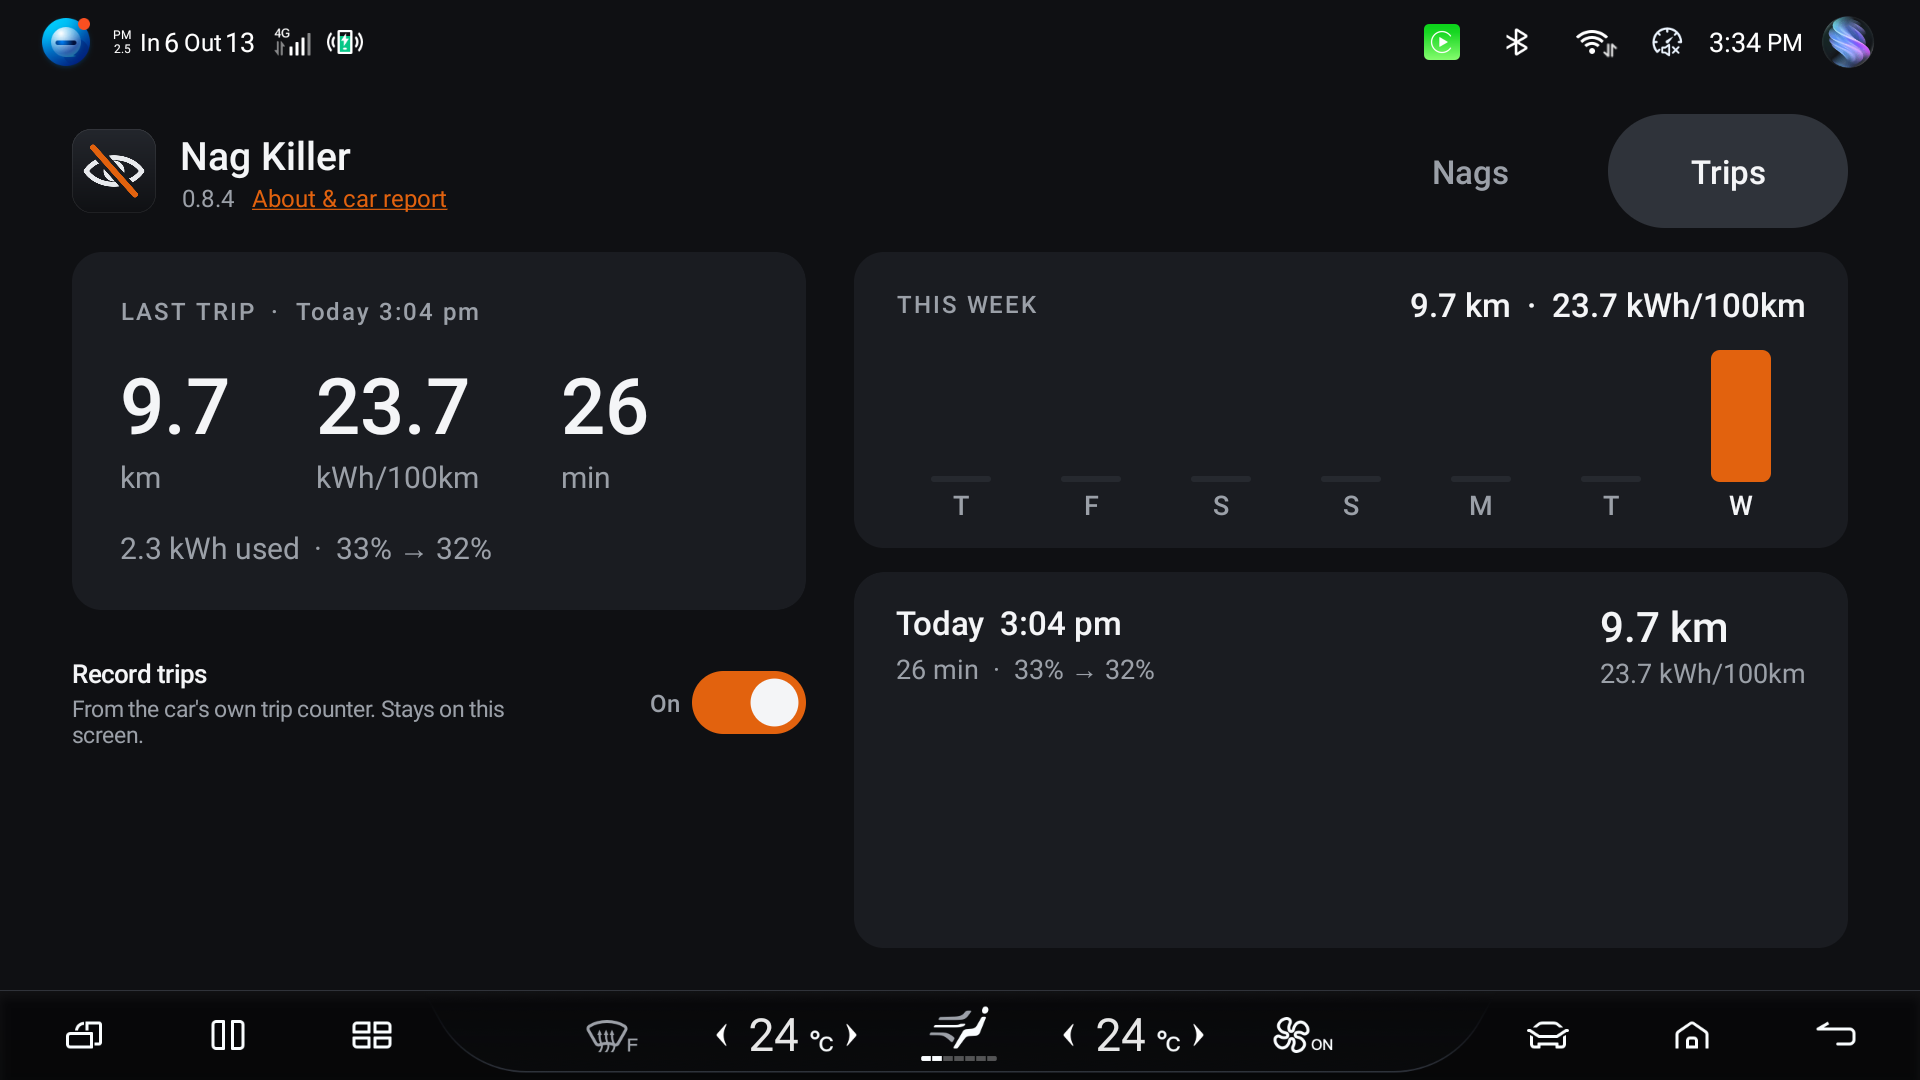
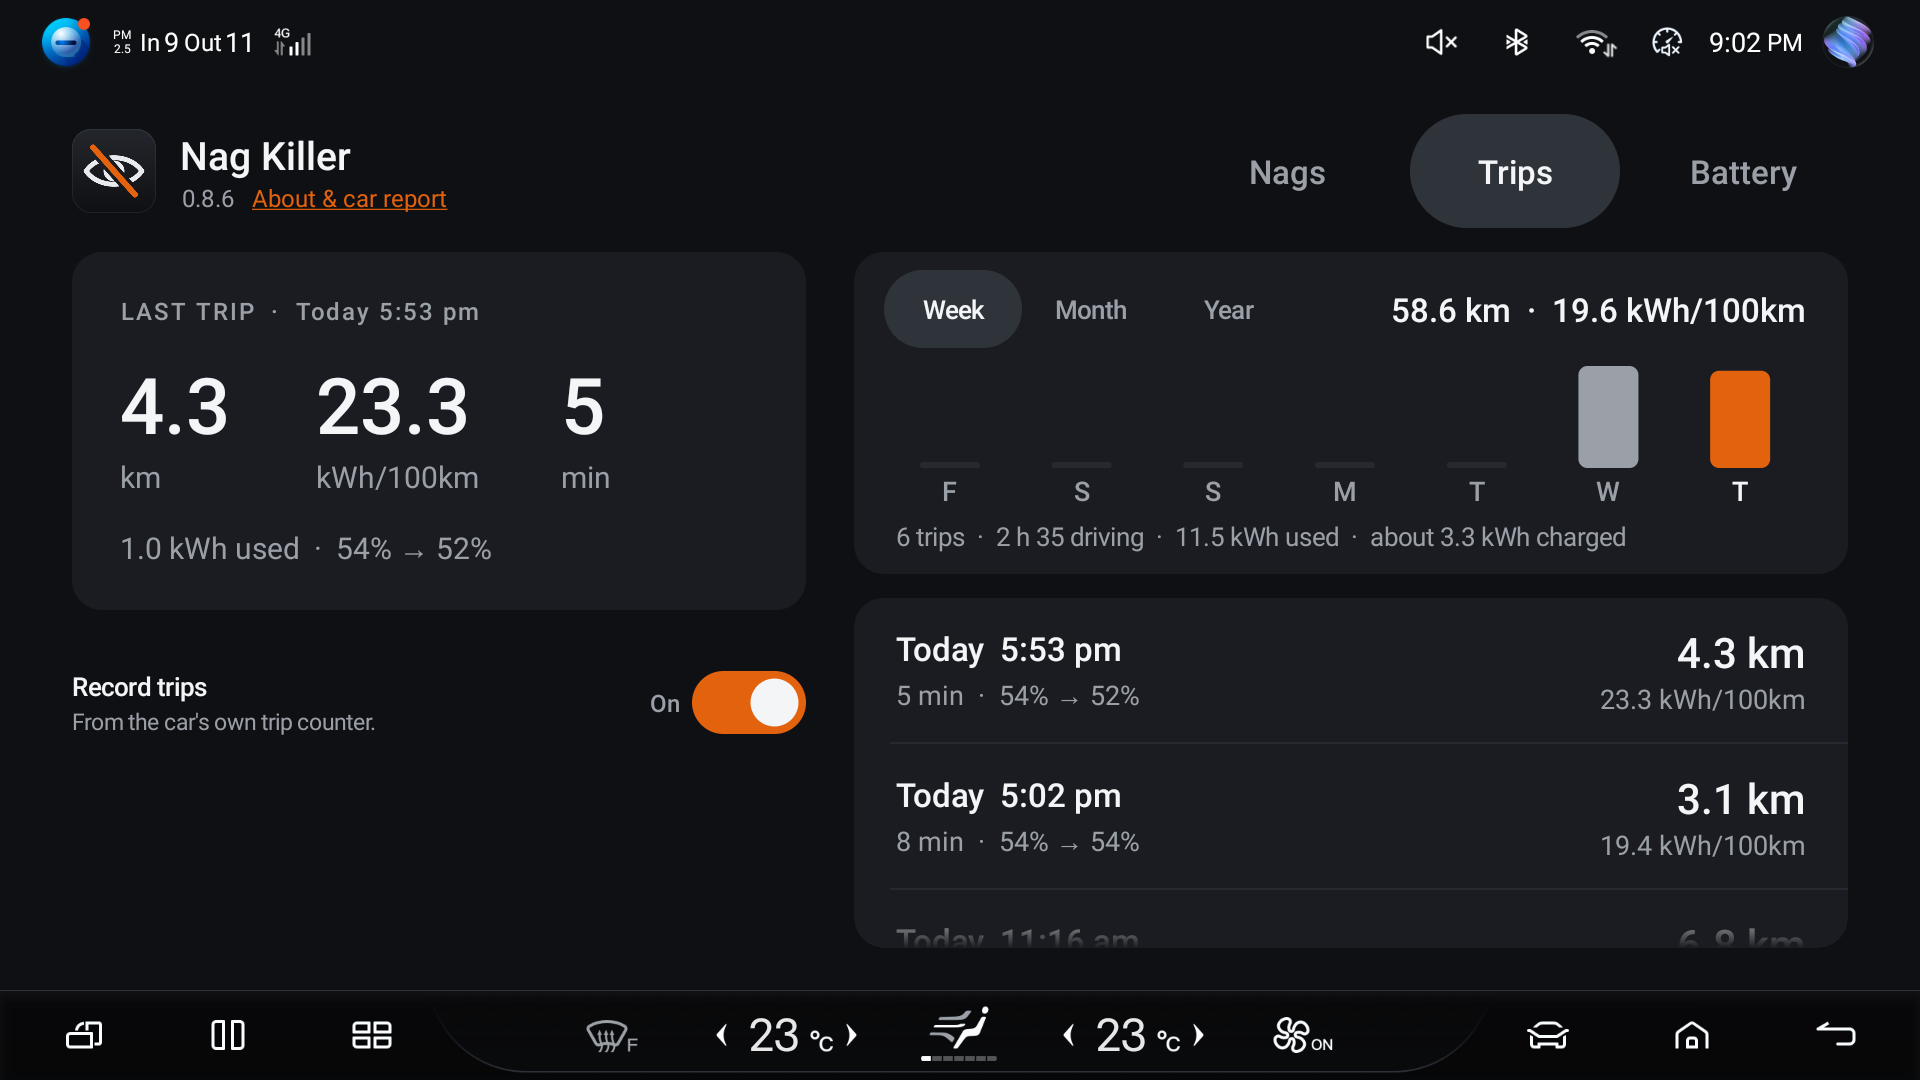
0.8.6: report dialog button, footer wrap, screenshots

diff --git a/app/src/au/jaso/naglab/BatteryScreen.java b/app/src/au/jaso/naglab/BatteryScreen.java
@@ -246,7 +246,7 @@ final class BatteryScreen {
         int car = NagService.batteryHealth;
         carLine.setText("Warranty " + (int) Trips.WARRANTY_PCT + "%, 8 years / 160,000 km"
                 + (car >= 0 ? "  ·  car's own figure " + car + "%" : ""));
-        carLine.setSingleLine(true);
+        carLine.setMaxLines(2);
 
         // Months
         float[] m = Trips.months(charges, now, cal, 6);
@@ -304,8 +304,14 @@ final class BatteryScreen {
         } catch (Exception e) {
             msg = "Couldn't write the report: " + e.getMessage();
         }
-        new android.app.AlertDialog.Builder(a, android.R.style.Theme_Material_Dialog_Alert).setTitle("Battery report").setMessage(msg)
-                .setPositiveButton("OK", null).show();
+        android.app.AlertDialog d = new android.app.AlertDialog.Builder(a, android.R.style.Theme_Material_Dialog_Alert)
+                .setTitle("Battery report").setMessage(msg).setPositiveButton("OK", null).show();
+        android.widget.Button ok = d.getButton(android.app.AlertDialog.BUTTON_POSITIVE);
+        if (ok != null) {   // car-sized target
+            ok.setTextSize(20);
+            ok.setMinHeight(a.dp(76));
+            ok.setMinWidth(a.dp(140));
+        }
     }
 
     private String monthSum = "";

diff --git a/README.md b/README.md
@@ -41,7 +41,8 @@ leaves them alone, so if you turn one off mid-drive it stays off until the next 
 ## Trips
 
 A Trips tab with every drive: distance, time, energy used, kWh/100km and battery % at the start
-and end, plus a bar chart for the week. It copies the car's own trip counter (the one the dash
+and end, plus a bar chart you can switch between week, month and year, with totals for each
+(trips, driving time, kWh used, kWh charged). It copies the car's own trip counter (the one the dash
 shows when you turn the car off), so the numbers match the car. Stops under 10 minutes are shown
 as one trip. While you're driving it only shows the current trip; the history appears when you're
 in Park.
@@ -72,6 +73,11 @@ and it doesn't need to go to 100%.
   at BYD Australia's 70% warranty line. It takes one reading from each charge or drive that
   moves the battery 30% or more in one go, shows a figure after three, and uses the middle of
   the last ten so one odd charge doesn't move it.
+
+The Battery report button saves a one-page `battery-report.html` in
+`/sdcard/Android/data/au.jaso.naglab/files/` with the car's VIN, the date and odometer, the health
+figure and every reading behind it, and your charging and trip totals. It says on it that it's
+an owner's log, not a certificate.
 
 The health figure is new and I'm still checking it on my own car. It's worked out from the
 car's own battery computer, so it's that computer's opinion, not an independent test. Don't
